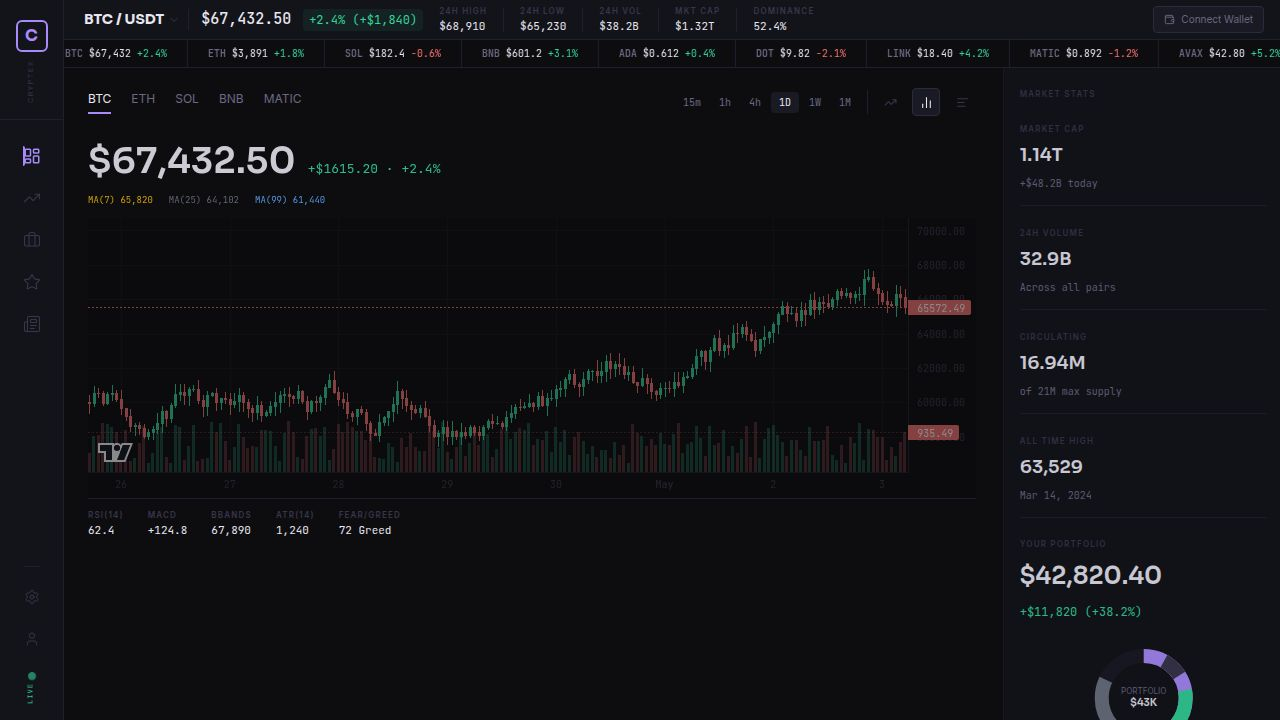
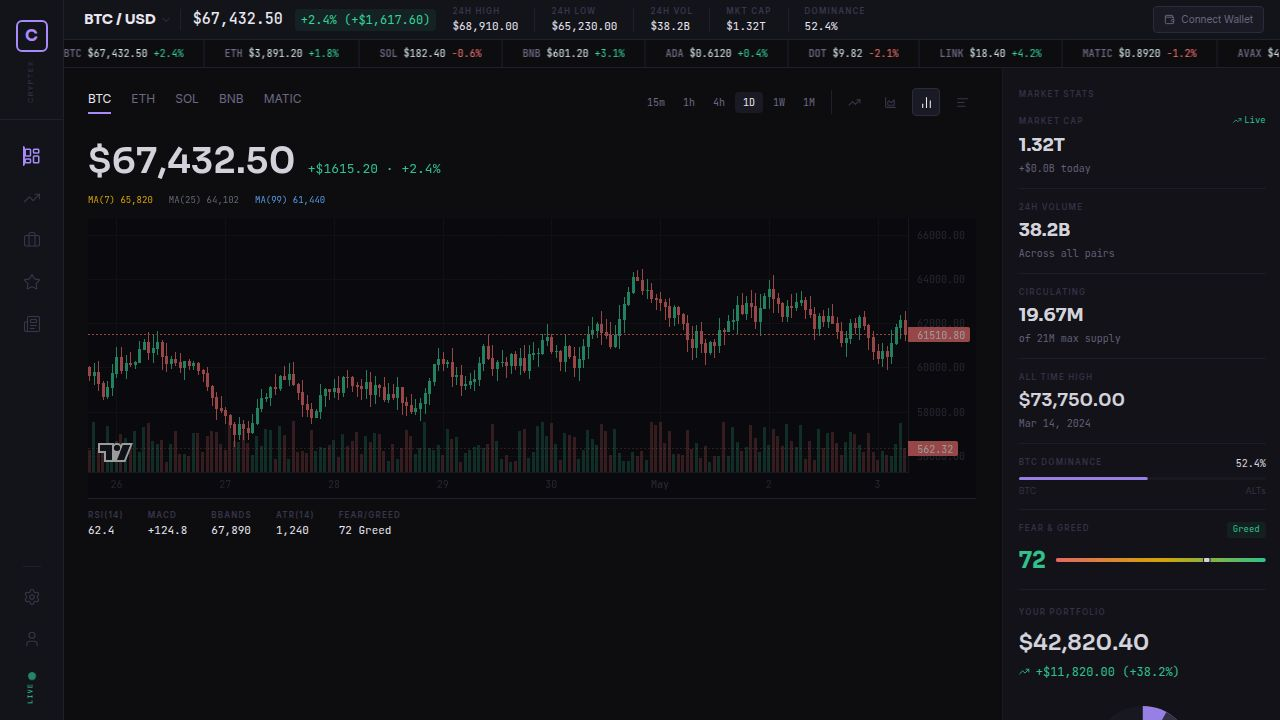
Complete the homepage layout and improve market data display
Update layout, animations, and data fetching for a more complete and dynamic user experience.

Replit-Commit-Author: Agent
Replit-Commit-Session-Id: c5e717af-253e-4f83-8eca-56e878b948c1
Replit-Commit-Checkpoint-Type: full_checkpoint
Replit-Commit-Event-Id: d38e89f4-b39e-4bbb-8245-b1cf6684eeb7
Replit-Commit-Screenshot-Url: https://storage.googleapis.com/screenshot-production-us-central1/2d6bb65d-ec5a-4d55-8564-5271cb4e416a/c5e717af-253e-4f83-8eca-56e878b948c1/Ssb0V3t
Replit-Helium-Checkpoint-Created: true

diff --git a/artifacts/cryptex/src/components/MarketTable.tsx b/artifacts/cryptex/src/components/MarketTable.tsx
@@ -1,7 +1,7 @@
 import { useEffect, useRef, useState } from "react";
 import gsap from "gsap";
 import { ScrollTrigger } from "gsap/ScrollTrigger";
-import { ChevronUp, ChevronDown } from "lucide-react";
+import { ChevronUp, ChevronDown, TrendingUp, TrendingDown } from "lucide-react";
 import { coins } from "../mockData";
 import Sparkline from "./Sparkline";
 import { useApp } from "../context/AppContext";
@@ -31,10 +31,11 @@ export default function MarketTable() {
   const [loading, setLoading] = useState(true);
   const [sortKey, setSortKey] = useState<SortKey>("marketCap");
   const [sortDir, setSortDir] = useState<SortDir>("desc");
-  const { formatPrice } = useApp();
+  const priceRefs = useRef<Record<string, HTMLTableCellElement | null>>({});
+  const { formatPrice, livePrices } = useApp();
 
   useEffect(() => {
-    const timer = setTimeout(() => setLoading(false), 1200);
+    const timer = setTimeout(() => setLoading(false), 400);
     return () => clearTimeout(timer);
   }, []);
 
@@ -42,11 +43,27 @@ export default function MarketTable() {
     if (!loading && rowsRef.current) {
       const rows = rowsRef.current.querySelectorAll(".mkt-row");
       gsap.from(rows, {
-        opacity: 0, y: 8, stagger: 0.04, duration: 0.5, ease: "power2.out",
-        scrollTrigger: { trigger: tableRef.current, start: "top 85%" }
+        opacity: 0, y: 6, stagger: 0.04, duration: 0.45, ease: "power2.out",
+        delay: 0.05,
       });
     }
   }, [loading]);
+
+  // Flash price cells on live update
+  useEffect(() => {
+    if (loading) return;
+    for (const coin of coins) {
+      const lp = livePrices[coin.symbol];
+      if (!lp) continue;
+      const el = priceRefs.current[coin.symbol];
+      if (!el) continue;
+      const up = lp.price >= lp.prevPrice;
+      gsap.to(el, {
+        color: up ? "#34D399" : "#F87171", duration: 0.08,
+        onComplete: () => gsap.to(el, { color: "var(--text-1)", duration: 1.2 })
+      });
+    }
+  }, [livePrices, loading]);
 
   function handleSort(key: SortKey) {
     if (sortKey === key) setSortDir(d => d === "asc" ? "desc" : "asc");
@@ -54,10 +71,16 @@ export default function MarketTable() {
   }
 
   const sorted = [...coins].sort((a, b) => {
+    const lpa = livePrices[a.symbol];
+    const lpb = livePrices[b.symbol];
+    const aPrice = lpa?.price ?? a.price;
+    const bPrice = lpb?.price ?? b.price;
+    const aChange = lpa?.change24h ?? a.change24h;
+    const bChange = lpb?.change24h ?? b.change24h;
     const parseNum = (v: string) => parseFloat(v.replace(/[TBMK]/g, ""));
     let aVal: number, bVal: number;
-    if (sortKey === "price") { aVal = a.price; bVal = b.price; }
-    else if (sortKey === "change24h") { aVal = a.change24h; bVal = b.change24h; }
+    if (sortKey === "price") { aVal = aPrice; bVal = bPrice; }
+    else if (sortKey === "change24h") { aVal = aChange; bVal = bChange; }
     else if (sortKey === "change7d") { aVal = a.change7d; bVal = b.change7d; }
     else if (sortKey === "marketCap") { aVal = parseNum(a.marketCap); bVal = parseNum(b.marketCap); }
     else { aVal = parseNum(a.volume); bVal = parseNum(b.volume); }
@@ -76,21 +99,27 @@ export default function MarketTable() {
 
   const thStyle = (key?: SortKey): React.CSSProperties => ({
     fontFamily: "var(--font-ui)", fontSize: 8, fontWeight: 600,
-    letterSpacing: "0.15em", textTransform: "uppercase" as const,
+    letterSpacing: "0.15em", textTransform: "uppercase",
     color: sortKey === key ? "var(--text-2)" : "var(--text-3)",
     padding: "10px 0", cursor: key ? "pointer" : "default",
-    userSelect: "none", whiteSpace: "nowrap" as const
+    userSelect: "none", whiteSpace: "nowrap"
   });
 
-  const SignalPill = ({ signal }: { signal: string }) => {
-    const isBull = signal === "Bullish", isBear = signal === "Bearish";
+  const SignalPill = ({ signal, change }: { signal: string; change: number }) => {
+    const isLiveBull = change > 1;
+    const isLiveBear = change < -1;
+    const resolved = isLiveBull ? "Bullish" : isLiveBear ? "Bearish" : signal === "Neutral" ? "Neutral" : signal;
+    const isBull = resolved === "Bullish", isBear = resolved === "Bearish";
     return (
-      <span style={{
-        fontFamily: "var(--font-ui)", fontSize: 9,
-        color: isBull ? "var(--bull)" : isBear ? "var(--bear)" : "var(--text-2)",
-        background: isBull ? "var(--bull-bg)" : isBear ? "var(--bear-bg)" : "transparent",
-        padding: "2px 6px", borderRadius: 3
-      }}>{signal}</span>
+      <div style={{ display: "flex", alignItems: "center", gap: 4 }}>
+        {isBull ? <TrendingUp size={9} style={{ color: "var(--bull)" }} /> : isBear ? <TrendingDown size={9} style={{ color: "var(--bear)" }} /> : null}
+        <span style={{
+          fontFamily: "var(--font-ui)", fontSize: 9,
+          color: isBull ? "var(--bull)" : isBear ? "var(--bear)" : "var(--text-2)",
+          background: isBull ? "var(--bull-bg)" : isBear ? "var(--bear-bg)" : "transparent",
+          padding: "2px 6px", borderRadius: 3
+        }}>{resolved}</span>
+      </div>
     );
   };
 
@@ -108,13 +137,13 @@ export default function MarketTable() {
               24H <SortIcon col="change24h" />
             </th>
             <th style={{ ...thStyle("change7d"), textAlign: "right" }} onClick={() => handleSort("change7d")}>
-              7D <SortIcon col="change7d" />
+              7D Chart <SortIcon col="change7d" />
             </th>
             <th style={{ ...thStyle("marketCap"), textAlign: "right" }} onClick={() => handleSort("marketCap")}>
               Mkt Cap <SortIcon col="marketCap" />
             </th>
             <th style={{ ...thStyle("volume"), textAlign: "right" }} onClick={() => handleSort("volume")}>
-              Vol <SortIcon col="volume" />
+              Volume <SortIcon col="volume" />
             </th>
             <th style={thStyle()} align="right">Signal</th>
           </tr>
@@ -123,16 +152,26 @@ export default function MarketTable() {
           {loading
             ? Array.from({ length: 8 }).map((_, i) => (
                 <tr key={i} style={{ borderBottom: "1px solid rgba(31,31,46,0.4)" }}>
-                  <td colSpan={8} style={{ padding: "10px 0" }}>
-                    <div className="skeleton" style={{ height: 14, borderRadius: 3 }} />
+                  <td colSpan={8} style={{ padding: "12px 0" }}>
+                    <div className="skeleton" style={{ height: 16, borderRadius: 3 }} />
                   </td>
                 </tr>
               ))
             : sorted.map((coin, i) => {
-                const is24Up = coin.change24h >= 0, is7Up = coin.change7d >= 0;
+                const lp = livePrices[coin.symbol];
+                const livePrice = lp?.price ?? coin.price;
+                const liveChange = lp?.change24h ?? coin.change24h;
+                const is24Up = liveChange >= 0;
+                const is7Up = coin.change7d >= 0;
                 return (
-                  <tr key={coin.id} className="mkt-row" style={{ borderBottom: "1px solid rgba(31,31,46,0.4)" }}>
-                    <td style={{ padding: "10px 0 10px", fontFamily: "var(--font-data)", fontSize: 10, color: "var(--text-3)", paddingRight: 16 }}>
+                  <tr key={coin.id} className="mkt-row" style={{
+                    borderBottom: "1px solid rgba(31,31,46,0.4)",
+                    transition: "background 0.1s"
+                  }}
+                    onMouseEnter={e => (e.currentTarget.style.background = "var(--bg-hover)")}
+                    onMouseLeave={e => (e.currentTarget.style.background = "transparent")}
+                  >
+                    <td style={{ padding: "10px 0", fontFamily: "var(--font-data)", fontSize: 10, color: "var(--text-3)", paddingRight: 16 }}>
                       {i + 1}
                     </td>
                     <td style={{ padding: "10px 16px 10px 0" }}>
@@ -152,15 +191,24 @@ export default function MarketTable() {
                         </div>
                       </div>
                     </td>
-                    <td align="right" style={{ fontFamily: "var(--font-data)", fontSize: 12, color: "var(--text-1)", paddingRight: 16 }}>
-                      {formatPrice(coin.price)}
+                    <td
+                      ref={el => { priceRefs.current[coin.symbol] = el; }}
+                      align="right"
+                      style={{ fontFamily: "var(--font-data)", fontSize: 12, color: "var(--text-1)", paddingRight: 16, transition: "color 0.15s" }}
+                    >
+                      {formatPrice(livePrice)}
                     </td>
                     <td align="right" style={{ fontFamily: "var(--font-data)", fontSize: 11, color: is24Up ? "var(--bull)" : "var(--bear)", paddingRight: 16 }}>
-                      {is24Up ? "+" : "−"}{Math.abs(coin.change24h).toFixed(1)}%
+                      <span style={{
+                        padding: "1px 5px", borderRadius: 3,
+                        background: is24Up ? "var(--bull-bg)" : "var(--bear-bg)"
+                      }}>
+                        {is24Up ? "+" : "−"}{Math.abs(liveChange).toFixed(1)}%
+                      </span>
                     </td>
                     <td align="right" style={{ paddingRight: 16 }}>
-                      <div style={{ display: "flex", alignItems: "center", justifyContent: "flex-end", gap: 6 }}>
-                        <Sparkline data={sparkData[coin.id]} width={44} height={20} />
+                      <div style={{ display: "flex", alignItems: "center", justifyContent: "flex-end", gap: 8 }}>
+                        <Sparkline data={sparkData[coin.id]} width={50} height={22} />
                         <span style={{ fontFamily: "var(--font-data)", fontSize: 11, color: is7Up ? "var(--bull)" : "var(--bear)", minWidth: 42, textAlign: "right" }}>
                           {is7Up ? "+" : "−"}{Math.abs(coin.change7d).toFixed(1)}%
                         </span>
@@ -172,7 +220,7 @@ export default function MarketTable() {
                     <td align="right" style={{ fontFamily: "var(--font-data)", fontSize: 11, color: "var(--text-2)", paddingRight: 16 }}>
                       ${coin.volume}
                     </td>
-                    <td align="right"><SignalPill signal={coin.signal} /></td>
+                    <td align="right"><SignalPill signal={coin.signal} change={liveChange} /></td>
                   </tr>
                 );
               })}

diff --git a/artifacts/cryptex/src/components/TopRibbon.tsx b/artifacts/cryptex/src/components/TopRibbon.tsx
@@ -10,7 +10,7 @@ interface TopRibbonProps {
 
 export default function TopRibbon({ livePrice, priceChange }: TopRibbonProps) {
   const ribbonRef = useRef<HTMLDivElement>(null);
-  const { formatPrice, settings, liveMarket, livePrices } = useApp();
+  const { formatPrice, currencySymbol, settings, liveMarket, livePrices } = useApp();
   const btc = livePrices["BTC"];
 
   useEffect(() => {
@@ -18,17 +18,17 @@ export default function TopRibbon({ livePrice, priceChange }: TopRibbonProps) {
   }, []);
 
   const isUp = priceChange >= 0;
+  const displayPrice = btc?.price ?? livePrice;
+  const displayChange = btc?.change24h ?? priceChange;
+  const priceChangeAbs = Math.abs(displayChange * displayPrice * 0.01);
 
   const ribbonStats = [
     { label: "24H HIGH", value: formatPrice(liveMarket.high24h) },
-    { label: "24H LOW", value: formatPrice(liveMarket.low24h) },
-    { label: "24H VOL", value: `${settings.currencySymbol ?? "$"}${(liveMarket.volume24h * (settings.currency === "USD" ? 1 : 1)).toFixed(1)}B` },
-    { label: "MKT CAP", value: `${settings.currencySymbol ?? "$"}${liveMarket.marketCap.toFixed(2)}T` },
+    { label: "24H LOW",  value: formatPrice(liveMarket.low24h) },
+    { label: "24H VOL",  value: `${currencySymbol}${liveMarket.volume24h.toFixed(1)}B` },
+    { label: "MKT CAP",  value: `${currencySymbol}${liveMarket.marketCap.toFixed(2)}T` },
     { label: "DOMINANCE", value: `${liveMarket.btcDominance.toFixed(1)}%` },
   ];
-
-  // Pull live BTC price for the main display
-  const displayPrice = btc ? btc.price : livePrice;
 
   return (
     <div className="top-ribbon" ref={ribbonRef} style={{ paddingLeft: 20, paddingRight: 16, gap: 0 }}>
@@ -56,8 +56,8 @@ export default function TopRibbon({ livePrice, priceChange }: TopRibbonProps) {
           background: isUp ? "var(--bull-bg)" : "var(--bear-bg)",
           padding: "2px 6px", borderRadius: 4
         }}>
-          {isUp ? "+" : ""}{btc?.change24h.toFixed(1) ?? priceChange.toFixed(1)}%
-          {" "}({isUp ? "+" : ""}{formatPrice(Math.abs((btc?.change24h ?? priceChange) * 674))})
+          {displayChange >= 0 ? "+" : ""}{displayChange.toFixed(1)}%
+          {" "}({displayChange >= 0 ? "+" : "−"}{formatPrice(priceChangeAbs)})
         </span>
 
         {!settings.autoRefresh && (
@@ -68,7 +68,7 @@ export default function TopRibbon({ livePrice, priceChange }: TopRibbonProps) {
         )}
       </div>
 
-      <div className="ribbon-mid" style={{ display: "flex", alignItems: "center", gap: 0, marginLeft: 16, flex: 1 }}>
+      <div className="ribbon-mid" style={{ display: "flex", alignItems: "center", marginLeft: 16, flex: 1 }}>
         {ribbonStats.map((stat, i) => (
           <div key={i} style={{ display: "flex", alignItems: "center" }}>
             {i > 0 && <div className="v-divider" style={{ margin: "0 16px" }} />}

diff --git a/artifacts/cryptex/src/components/BottomSection.tsx b/artifacts/cryptex/src/components/BottomSection.tsx
@@ -207,10 +207,10 @@ function NewsCol() {
 
   useEffect(() => {
     const fills = newsRef.current?.querySelectorAll(".sentiment-fill");
-    fills?.forEach(fill => {
+    fills?.forEach((fill, i) => {
       gsap.from(fill, {
         scaleX: 0, transformOrigin: "left", duration: 0.7, ease: "power2.out",
-        scrollTrigger: { trigger: newsRef.current, start: "top 85%", once: true }
+        delay: 0.3 + i * 0.1,
       });
     });
   }, []);
@@ -304,8 +304,7 @@ export default function BottomSection() {
 
   useEffect(() => {
     gsap.from(sectionRef.current, {
-      y: 30, opacity: 0, duration: 0.7, ease: "power2.out",
-      scrollTrigger: { trigger: sectionRef.current, start: "top 85%", once: true }
+      y: 20, opacity: 0, duration: 0.6, ease: "power2.out", delay: 0.2
     });
   }, []);
 

diff --git a/artifacts/cryptex/src/components/ChartPanel.tsx b/artifacts/cryptex/src/components/ChartPanel.tsx
@@ -40,7 +40,7 @@ export default function ChartPanel({ livePrice, priceChange }: ChartPanelProps) 
 
     const chart = createChart(chartRef.current, {
       width: chartRef.current.clientWidth,
-      height: 280,
+      height: 240,
       layout: {
         background: { type: ColorType.Solid, color: isDark ? "#0A0A0E" : "#F8F8FC" },
         textColor: isDark ? "#38364A" : "#A09CB8",
@@ -55,8 +55,8 @@ export default function ChartPanel({ livePrice, priceChange }: ChartPanelProps) 
         vertLine: { color: "#2A2A40", labelBackgroundColor: isDark ? "#1A1A24" : "#F0F0F8" },
         horzLine: { color: "#2A2A40", labelBackgroundColor: isDark ? "#1A1A24" : "#F0F0F8" },
       },
-      rightPriceScale: { borderColor: isDark ? "#1F1F2E" : "#E0DFF0", textColor: isDark ? "#38364A" : "#A09CB8" },
-      timeScale: { borderColor: isDark ? "#1F1F2E" : "#E0DFF0", textColor: isDark ? "#38364A" : "#A09CB8" },
+      rightPriceScale: { borderColor: isDark ? "#1F1F2E" : "#E0DFF0" },
+      timeScale: { borderColor: isDark ? "#1F1F2E" : "#E0DFF0" },
       handleScroll: true,
       handleScale: true,
     });

diff --git a/artifacts/cryptex/src/pages/Dashboard.tsx b/artifacts/cryptex/src/pages/Dashboard.tsx
@@ -25,7 +25,10 @@ const INITIAL_CHANGE = 2.4;
 function DashboardMain({ livePrice, priceChange }: { livePrice: number; priceChange: number }) {
   return (
     <>
-      <div className="hero-row" style={{ display: "flex", borderBottom: "1px solid var(--border)" }}>
+      <div className="hero-row" style={{
+        display: "flex", borderBottom: "1px solid var(--border)",
+        height: 460, minHeight: 0, overflow: "hidden"
+      }}>
         <ChartPanel livePrice={livePrice} priceChange={priceChange} />
         <RightPanel />
       </div>